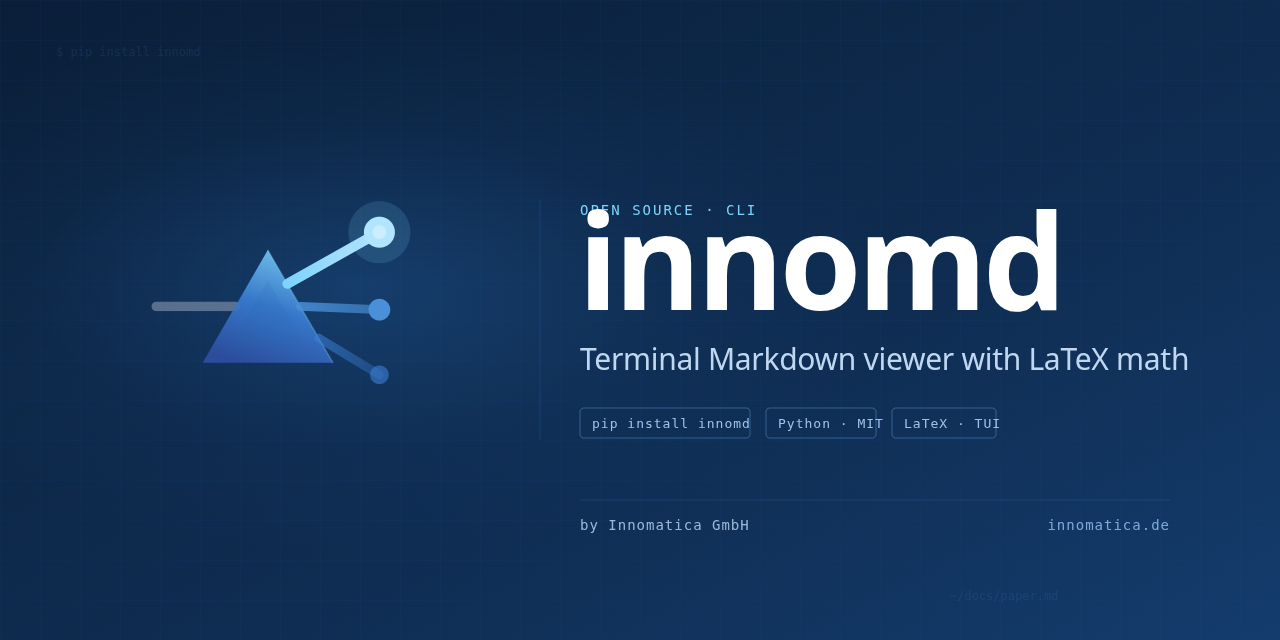
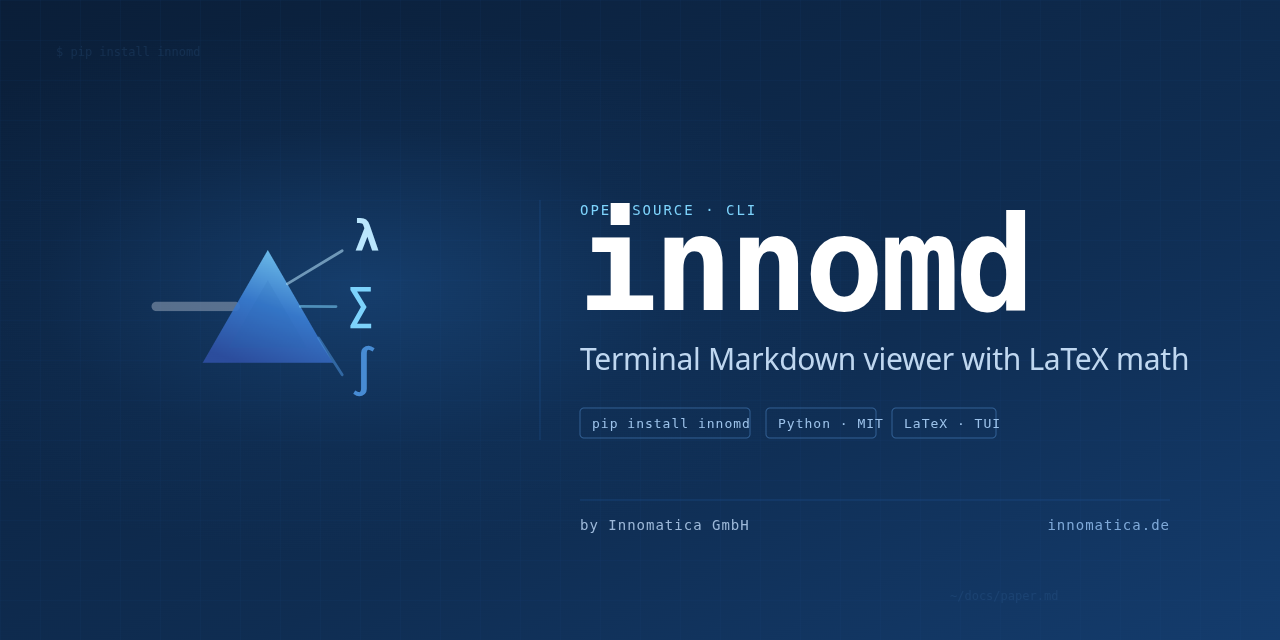
Add innomd product mark (prism breaking light into math glyphs)
Distinct innomd mark stays in the Innomatica visual family (same palette
and prism motif) while telling the product story: three math glyphs
(lambda, sigma, integral) emanate from the prism instead of abstract rays.

- README header switches from the generic Innomatica prism to the
  innomd-specific mark.
- Updated GitHub social preview to use the new mark.
- Added 32/64/512 mark variants plus horizontal lockup for future use.
- Replaced the 16px favicon with the innomd-specific minimal version
  (prism + lambda) and dropped the now-superseded 32/64 generic favicons.

Changed region(s): [[0.4375, 0.3125, 0.8438, 0.5], [0.2188, 0.3125, 0.3125, 0.625]]

diff --git a/README.md b/README.md
@@ -1,5 +1,5 @@
 <p align="center">
-  <img src="assets/innomatica-logo.png" alt="Innomatica GmbH" width="96">
+  <img src="assets/innomd-mark-512.png" alt="innomd" width="120">
 </p>
 
 <h1 align="center">innomd — Terminal Markdown Viewer with LaTeX Math Support</h1>
